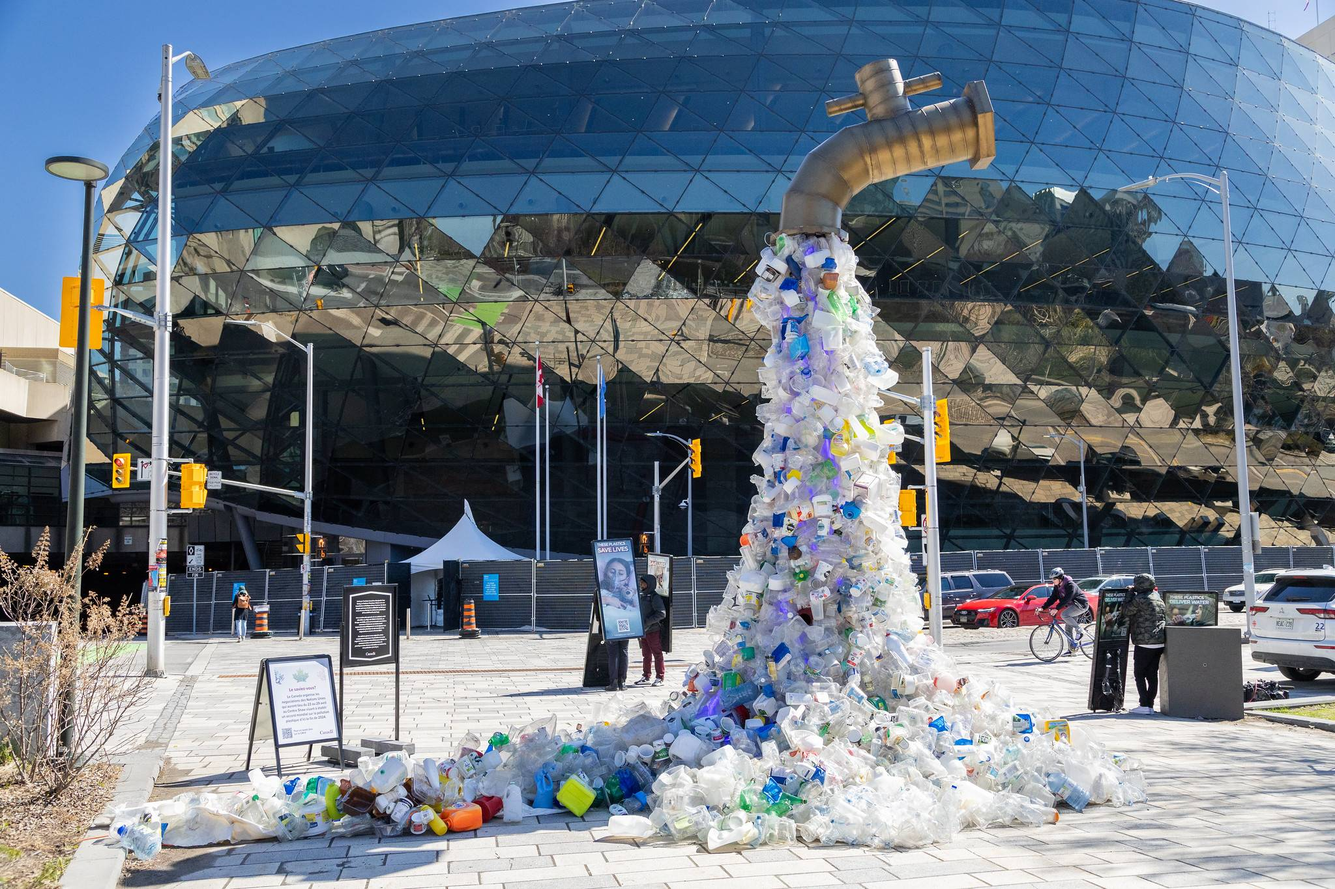
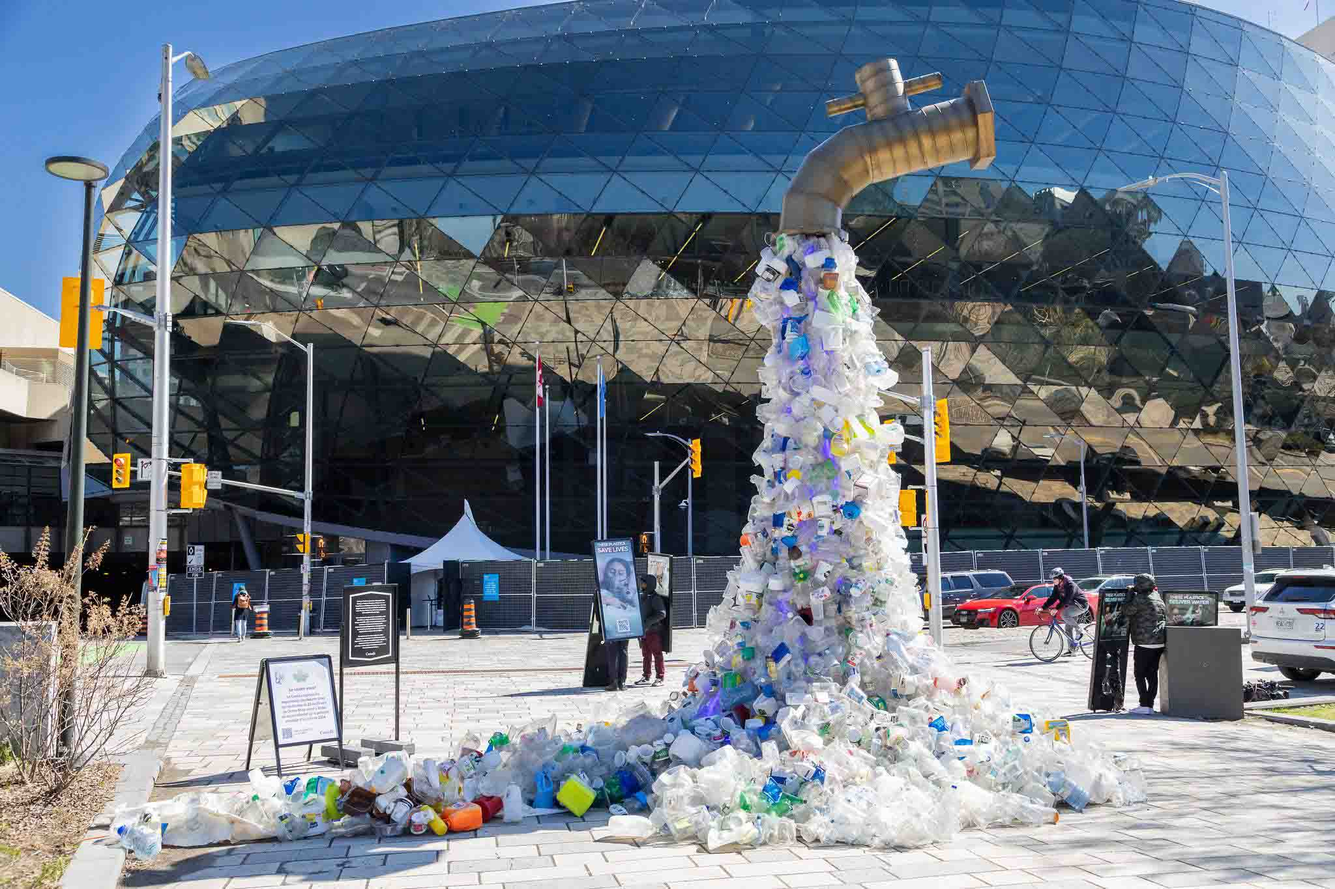
image resizing

diff --git a/index.html b/index.html
@@ -4,18 +4,23 @@
     <meta name="viewport" content="with=device-width, initial-scale=1.0">
     <meta charset="UTF-8">
     <meta http-equiv="X-UA-Compatible" content="IE=edge">
-    <meta name="description" content="Join the Global Plastic Treaty initiative to take action against plastic pollution and microplastics. Explore interactive maps, impactful articles, and visuals showcasing the fight for change to protect our oceans and environment.">
+    <meta name="description" content="Join the Global Plastic Treaty initiative to take action against plastic pollution and microplastics. 
+    Explore interactive maps, impactful articles, and visuals showcasing the fight for change to protect our oceans and environment.">
     <meta name="author" content="Benjamin Steckmetz, Anders Jørgensen, Jeppe Westergaard, Michel Skånvad">
     <meta name="robots" content="index, follow">
     <!--FACEBOOK(meta)-->
     <meta property="og:title" content="Global Plastic Treaty">
-    <meta property="og:description" content="Join the Global Plastic Treaty initiative to take action against plastic pollution and microplastics.">
-    <meta property="og:image" content="images/girlProtester.jpg">
+    <meta property="og:description" 
+    content="Join the Global Plastic Treaty initiative to take action against plastic pollution and microplastics.">
+
+    <meta property="og:image" content="images/mediumLogo.png">
     <meta property="og:url" content="https://benjasteck.github.io/plastic/index.html">
     <!--tWITTER-->
     <meta name="twitter:card" content="summary_large_image">
     <meta name="twitter:title" content="Global Plastic Treaty">
-    <meta name="twitter:description" content="Join the Global Plastic Treaty initiative to take action against plastic pollution and microplastics.">
+    <meta name="twitter:description" 
+    content="Join the Global Plastic Treaty initiative to take action against plastic pollution and microplastics.">
+
     <meta name="twitter:image" content="images/mediumLogo.png">
     
 
@@ -177,7 +182,7 @@
     </div>
 
     <div class="map-container">
-            <img src="images/Map.png" alt="" class="map" aria-label="A green map of the world">
+            <img src="images/Map.jpg" alt="" class="map" aria-label="A green map of the world highlighting plastic polution by volume">
             <div class="overlay"></div>
             <h2 class="mapTitle">Help the developing countries stop <br>generating plastic</h2>
             <p class="mapText">Most plastic is produces in developing countries. why? <br>Because rich  manufacturers sell their waste and send it to them, <br>in addition to many outsourcing the development of it to them. <br>Interact with the pins to see more. </p>

diff --git a/article.html b/article.html
@@ -4,7 +4,20 @@
     <meta name="viewport" content="with=device-width, initial-scale=1.0">
     <meta charset="UTF-8">
     <meta http-equiv="X-UA-Compatible" content="IE=edge">
+    <meta name="description" content="A concise summary of your webpage to improve SEO and attract visitors.">
     <meta name="author" content="Benjamin Steckmetz, Anders Jørgensen, Jeppe Westergaard, Michel Skånvad">
+    <meta name="robots" content="index, follow">
+    <!--FACEBOOK-->
+    <meta property="og:title" content="Global Plastic Treaty">
+    <meta property="og:description" content="my name a jeff bezos">
+    <meta property="og:image" content="images/forkPlastic.jpg">
+    <meta property="og:url" content="https://benjasteck.github.io/plastic/index.html">
+    <!--tWITTER-->
+    <meta name="twitter:card" content="summary_large_image">
+    <meta name="twitter:title" content="Global Plastic Treaty">
+    <meta name="twitter:description" content="A brief summary of the page">
+    <meta name="twitter:image" content="https://example.com/image.jpg">
+
     <title>Global Plastic Treaty</title>
     <link rel="stylesheet" href="StyleArticle.css">
     <script src="https://kit.fontawesome.com/6cff64fb2c.js" crossorigin="anonymous"></script>
@@ -40,6 +53,7 @@
             </div>
         </div>
     </div>
+    <img src="images/circle.png" alt="" class="donut">
     <div class="articleSpace">
         <div class="titleContent">
             <h2>Articles > Microplastics</h2>

diff --git a/StyleIndex.css b/StyleIndex.css
@@ -57,8 +57,6 @@ body{
     margin: 0 auto;
     min-width: var(--minWidth);
     max-width: var(--maxWidth);
-    
-
 }
 nav{
     display: flex;
@@ -738,12 +736,12 @@ a{
     background-color: #939393;
 }
 #loop-button1{
-    background-image: url(images/plasticHeart.PNG);
+    background-image: url(images/plasticHeart.jpg);
     background-size: cover;
     background-position: center;
 }
 #loop-button2{
-    background-image: url(images/globePlastic.PNG);
+    background-image: url(images/globePlastic.jpg);
     background-size: cover;
     background-position: center;
 }
@@ -977,9 +975,7 @@ a{
            font-size: 18px;
            font-weight: bold;
            color: #333332;
-           color: #f6f6f6;
-           
-           
+           color: #f6f6f6;   
         }
         .petitionSquare img{
         position: relative;
